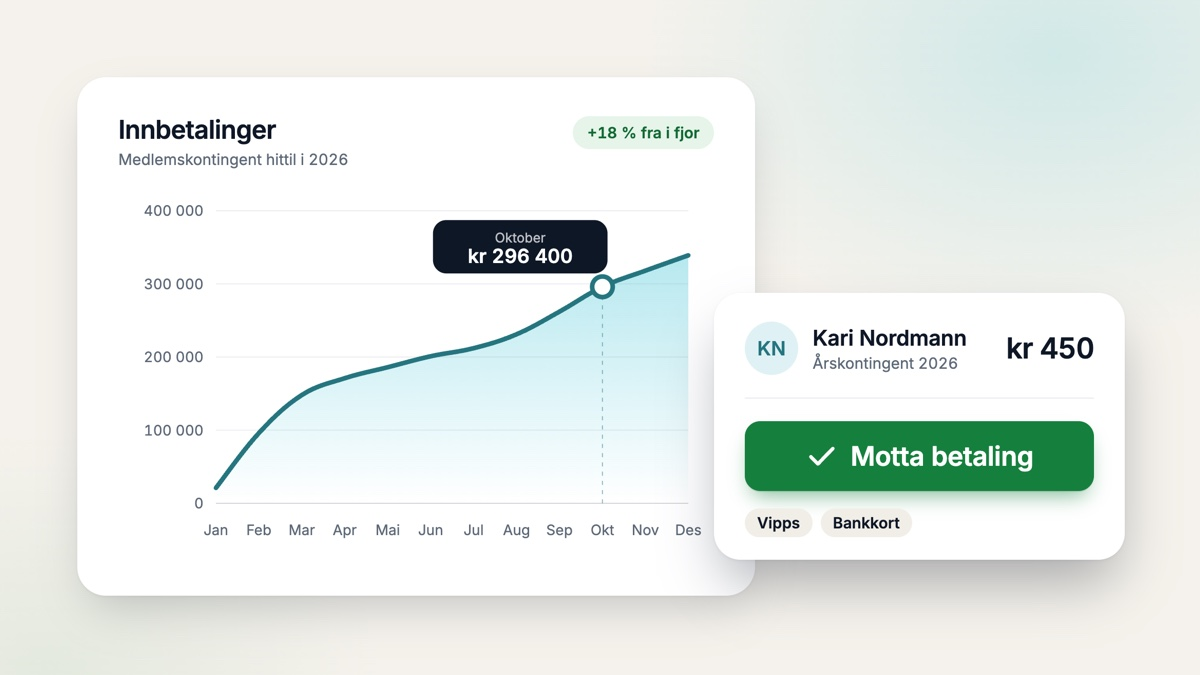
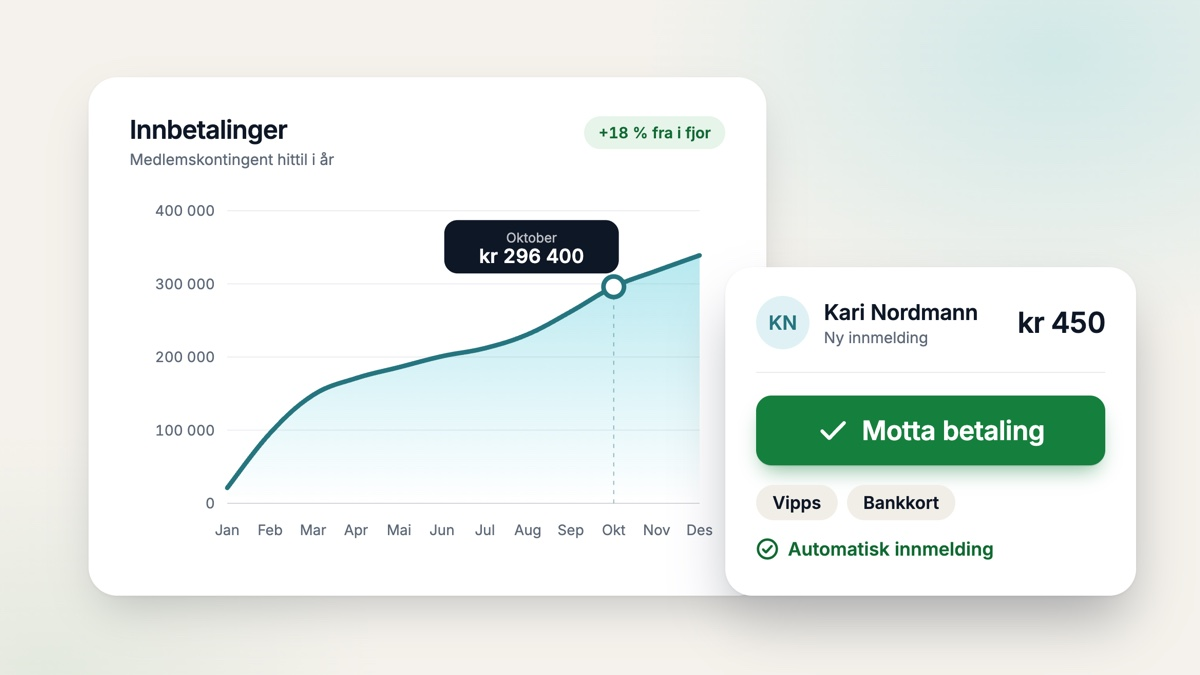
Refine dashboard hero: centred composition, Vipps/card and automatic enrolment, 'hittil i år'

diff --git a/index.html b/index.html
@@ -216,7 +216,7 @@
                     <div class="masthead-media">
                         <picture>
                             <source srcset="/assets/img/regweb-hero-800.webp 800w, /assets/img/regweb-hero-1200.webp 1200w, /assets/img/regweb-hero-1600.webp 1600w" sizes="(max-width: 1160px) 100vw, 1112px" type="image/webp" />
-                            <img src="/assets/img/regweb-hero-1200.jpg" srcset="/assets/img/regweb-hero-800.jpg 800w, /assets/img/regweb-hero-1200.jpg 1200w, /assets/img/regweb-hero-1600.jpg 1600w" sizes="(max-width: 1160px) 100vw, 1112px" alt="Regweb-dashbord med graf over innbetalinger og en grønn knapp for å motta betaling" width="1600" height="900" fetchpriority="high" />
+                            <img src="/assets/img/regweb-hero-1200.jpg" srcset="/assets/img/regweb-hero-800.jpg 800w, /assets/img/regweb-hero-1200.jpg 1200w, /assets/img/regweb-hero-1600.jpg 1600w" sizes="(max-width: 1160px) 100vw, 1112px" alt="Regweb-dashbord med graf over innbetalinger, en grønn knapp for å motta betaling og automatisk innmelding med Vipps og bankkort" width="1600" height="900" fetchpriority="high" />
                         </picture>
                     </div>
                 </div>
